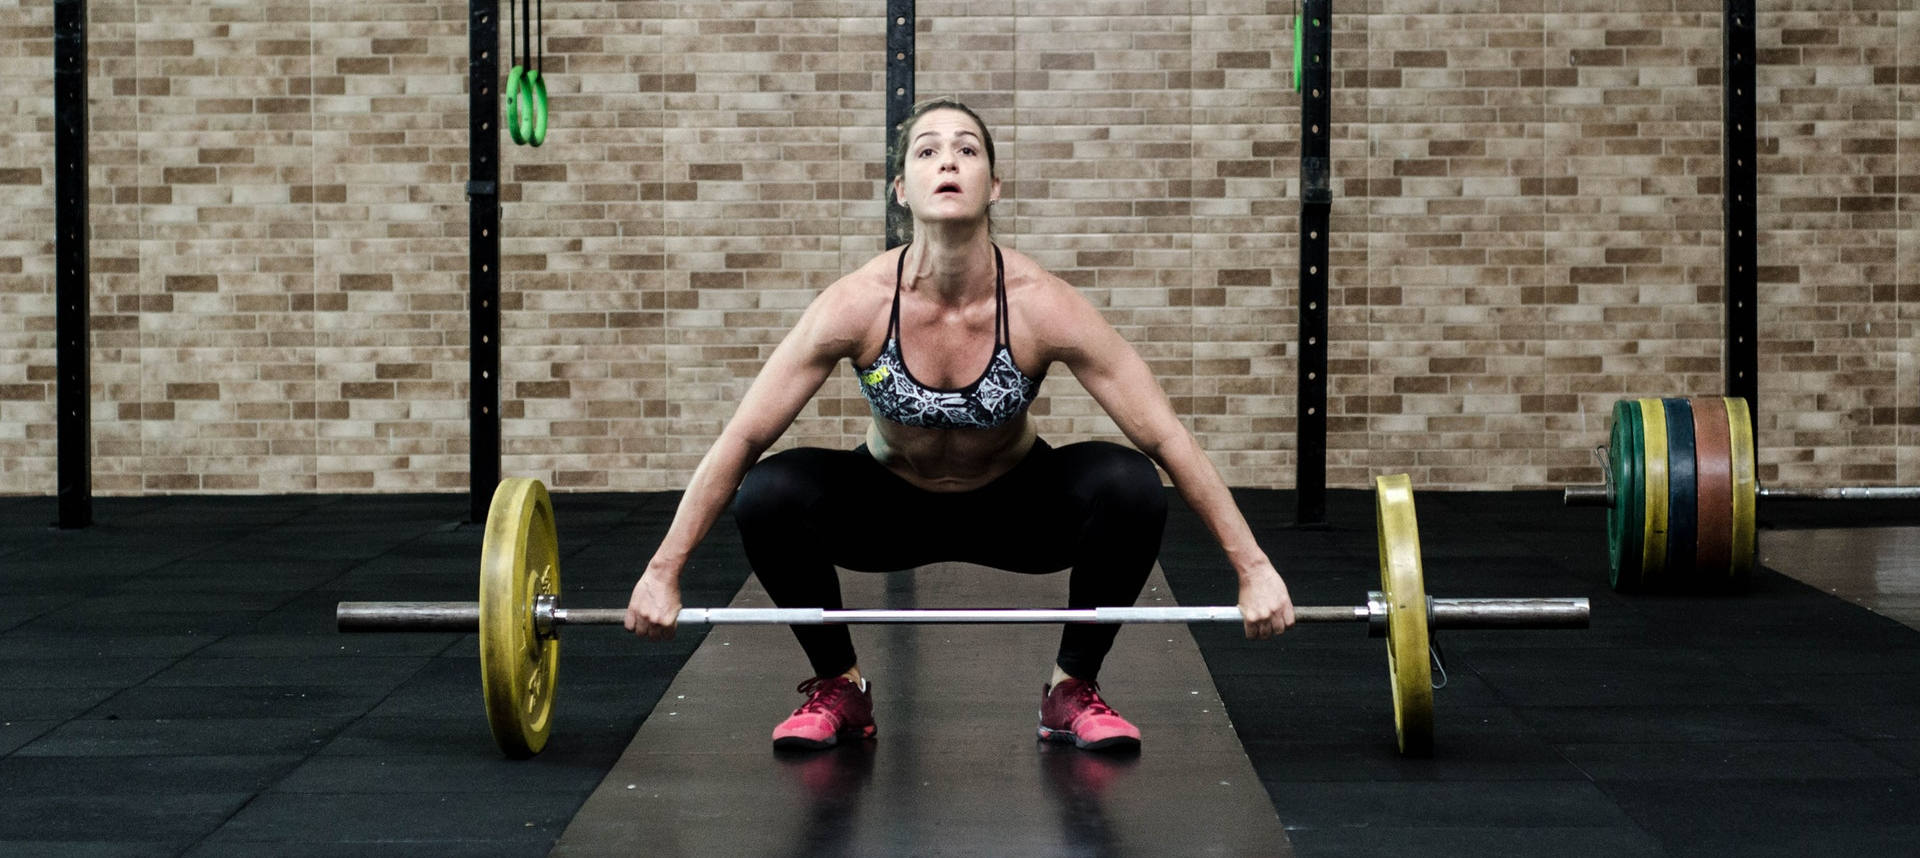
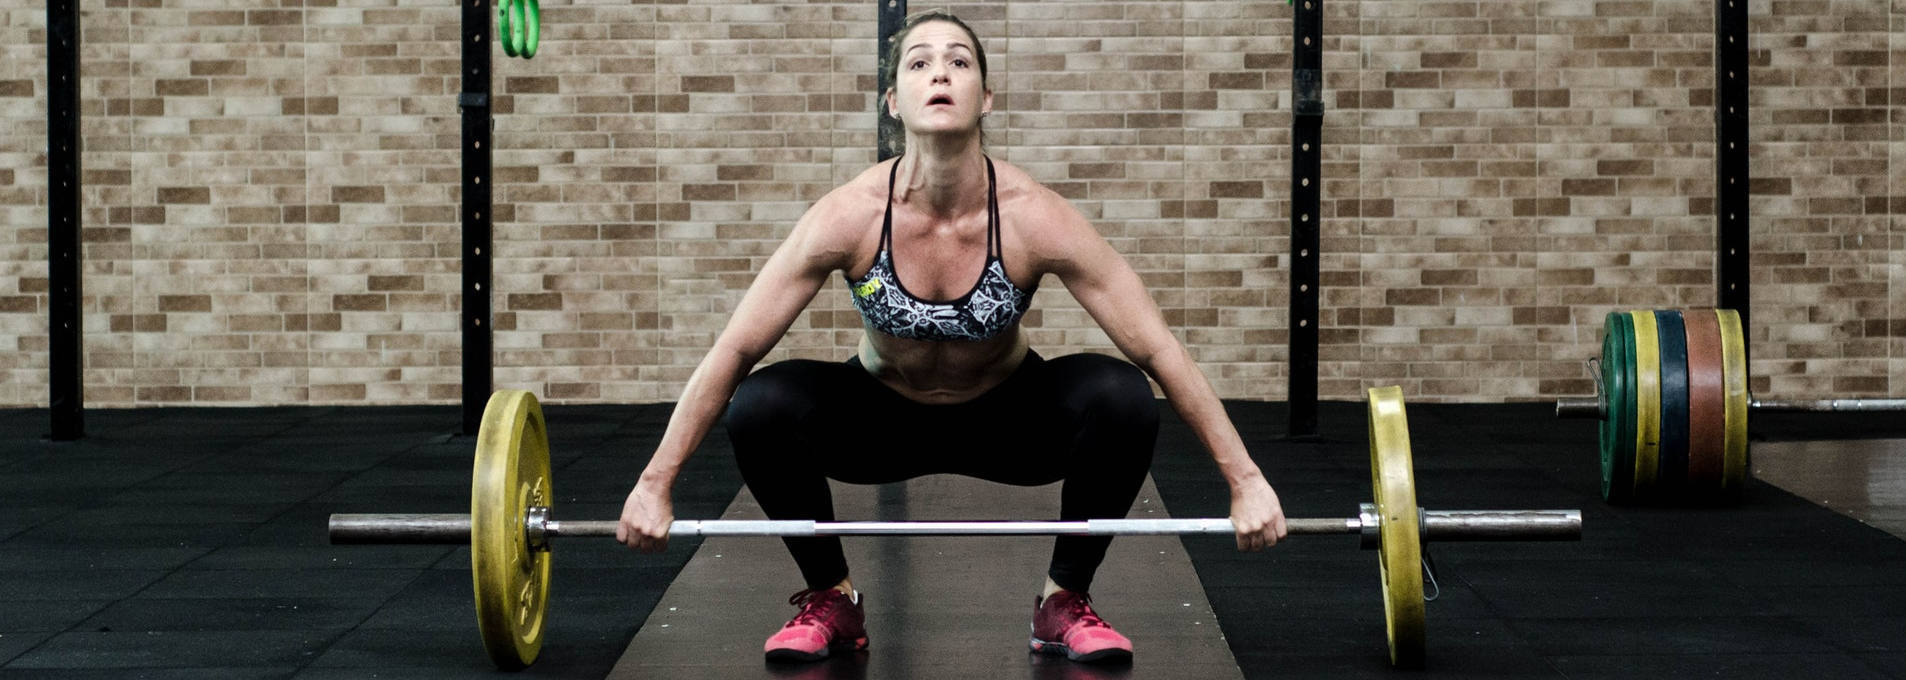
changes in dimension of all slider images and little bit responsive ness tweak also

diff --git a/css/style.css b/css/style.css
@@ -4,8 +4,7 @@ body{
 
 .wrapper{
  width: 100%;
- min-width: 960px;
-}
+ }
 
 .logo{
     margin: 0;
@@ -58,7 +57,7 @@ ul{
 
 img{
     width: 100%;
-    height: 500px;
+    height: auto;
     transition: img;
 }
 
@@ -295,20 +294,27 @@ h2{
 
 @media screen and (max-width: 450px) {
     .common p{
-        font-size: 35px;
+        font-size: 18px;
     }
     
     .common h2{
+        font-size: 30px;
+        height: 65px;
+        margin: 0;
+    }
+    
+    .logo .name{
         font-size: 50px;
-        height: 75px;
+        padding-top: 20px;
     }
-    
     .nav ul li a{
-        font-size: 35px;
+        font-size: 20px;
     }
-    
+    #hoverable-menu{
+        height: 50px;
+    }
     #hoverable-menu a #fb,#tw{
-        font-size: 50px;        
+        font-size: 30px;
     }
     
 }
